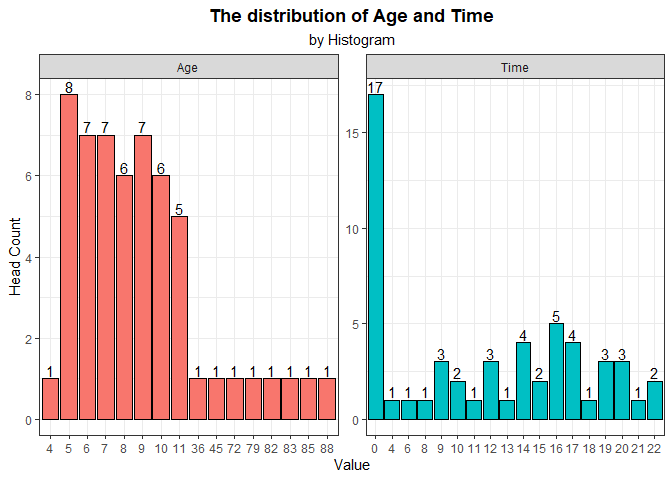
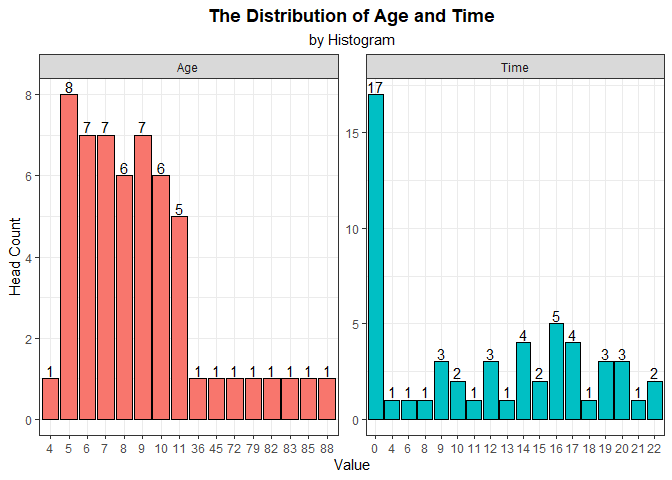
finalise

Changed region(s): [[0.3125, 0.0, 0.75, 0.0625]]

diff --git a/poison.md b/poison.md
@@ -1,4 +1,4 @@
-poison_survey
+Food Poison Survey Analysis using Multiple Correspondence Analysis
 ================
 Kar
 2022-05-05
@@ -17,7 +17,7 @@ Kar
     -   [5.3 Variable Analysis](#53-variable-analysis)
     -   [5.4 Individual Analysis](#54-individual-analysis)
     -   [5.5 Biplot](#55-biplot)
--   [6 Conclusion](#6-conclusion)
+-   [6 CONCLUSION](#6-conclusion)
 -   [7 REFERENCE](#7-reference)
 
 ## 1 R PACKAGES
@@ -34,12 +34,12 @@ library(corrplot)
 
 ## 2 INTRODUCTION
 
-This project will analyse a survey dataset using one of the principal
-component methods. The technique of “Principal component methods” is
+This project will analyse a survey dataset using one of the Principal
+Component methods. The technique of “Principal Component methods” is
 known as one of the machine learning methods, belonging to the
-“unsupervised” branch, which can quickly summarise a dataset by
-revealing the most important variables (columns) or observations (rows)
-in the dataset.
+“unsupervised” branch. Principal Component methods can quickly summarise
+a multivariate dataset by revealing the most important variables
+(columns) and observations (rows) in the dataset.
 
 The data of this survey dataset was collected from students in a primary
 school who suffered from food poisoning. The dataset contains various
@@ -48,14 +48,18 @@ sex, symptoms of food poisoning (nausea, vomiting, abdominal, fever, and
 diarrhea) and food they ate (potato, fish, mayo, courgette, cheese, ice
 cream).
 
+This project will use multiple component analysis (MCA), which is one of
+the principal component methods to analysis the data and identify which
+food is most likely causing the food poisoning.
+
 ## 3 DATA PREPARATION
 
-The dataset of this project is called “poison”, which is a public
-dataset from the R package “FactoMineR”.
+The dataset of this project is called “poison”. It is a public dataset
+from the R package “FactoMineR”.
 
 ### 3.1 Data Import
 
-Following code download the dataset from the package.
+Following code downloads the dataset from the package.
 
 ``` r
 data(poison)
@@ -68,32 +72,32 @@ sample_n(poison, 10)
 ```
 
     ##    Age Time   Sick Sex   Nausea Vomiting Abdominals   Fever   Diarrhae   Potato
-    ## 25  45   10 Sick_y   F Nausea_n  Vomit_n     Abdo_y Fever_y Diarrhea_y Potato_y
-    ## 19  11   14 Sick_y   F Nausea_n  Vomit_y     Abdo_y Fever_y Diarrhea_y Potato_y
+    ## 12  10   16 Sick_y   F Nausea_n  Vomit_y     Abdo_y Fever_n Diarrhea_n Potato_y
+    ## 38   6    0 Sick_n   F Nausea_n  Vomit_n     Abdo_n Fever_n Diarrhea_n Potato_y
+    ## 53   6    0 Sick_n   F Nausea_n  Vomit_n     Abdo_n Fever_n Diarrhea_n Potato_y
     ## 17   7   10 Sick_y   M Nausea_n  Vomit_y     Abdo_y Fever_y Diarrhea_y Potato_y
+    ## 13  36   19 Sick_y   F Nausea_n  Vomit_n     Abdo_y Fever_y Diarrhea_y Potato_y
     ## 7    5   16 Sick_y   F Nausea_n  Vomit_y     Abdo_y Fever_y Diarrhea_y Potato_y
-    ## 22   8   14 Sick_y   F Nausea_n  Vomit_n     Abdo_y Fever_y Diarrhea_y Potato_y
-    ## 15   8    0 Sick_n   M Nausea_n  Vomit_n     Abdo_n Fever_n Diarrhea_n Potato_y
-    ## 3    6   16 Sick_y   F Nausea_n  Vomit_y     Abdo_y Fever_y Diarrhea_y Potato_y
-    ## 35   7   15 Sick_y   F Nausea_y  Vomit_n     Abdo_y Fever_y Diarrhea_y Potato_n
-    ## 23   8   21 Sick_y   F Nausea_n  Vomit_y     Abdo_y Fever_y Diarrhea_y Potato_y
-    ## 5    7   14 Sick_y   M Nausea_n  Vomit_y     Abdo_y Fever_y Diarrhea_y Potato_y
+    ## 40   6   16 Sick_y   M Nausea_y  Vomit_y     Abdo_y Fever_y Diarrhea_y Potato_y
+    ## 54  10   19 Sick_y   M Nausea_n  Vomit_y     Abdo_y Fever_y Diarrhea_n Potato_y
+    ## 16   6    6 Sick_y   F Nausea_n  Vomit_y     Abdo_y Fever_y Diarrhea_y Potato_y
+    ## 24  11   13 Sick_y   M Nausea_n  Vomit_y     Abdo_y Fever_n Diarrhea_y Potato_y
     ##      Fish   Mayo Courgette   Cheese   Icecream
-    ## 25 Fish_y Mayo_y   Courg_y Cheese_n Icecream_y
-    ## 19 Fish_y Mayo_y   Courg_y Cheese_y Icecream_y
+    ## 12 Fish_y Mayo_y   Courg_y Cheese_y Icecream_y
+    ## 38 Fish_y Mayo_y   Courg_n Cheese_n Icecream_y
+    ## 53 Fish_y Mayo_n   Courg_y Cheese_n Icecream_n
     ## 17 Fish_y Mayo_y   Courg_y Cheese_n Icecream_y
+    ## 13 Fish_y Mayo_y   Courg_y Cheese_y Icecream_y
     ## 7  Fish_y Mayo_y   Courg_y Cheese_y Icecream_y
-    ## 22 Fish_y Mayo_y   Courg_y Cheese_y Icecream_n
-    ## 15 Fish_y Mayo_n   Courg_y Cheese_n Icecream_y
-    ## 3  Fish_y Mayo_y   Courg_y Cheese_y Icecream_y
-    ## 35 Fish_y Mayo_y   Courg_y Cheese_y Icecream_y
-    ## 23 Fish_y Mayo_y   Courg_n Cheese_y Icecream_y
-    ## 5  Fish_y Mayo_y   Courg_y Cheese_y Icecream_y
+    ## 40 Fish_y Mayo_y   Courg_y Cheese_y Icecream_y
+    ## 54 Fish_y Mayo_y   Courg_y Cheese_y Icecream_y
+    ## 16 Fish_y Mayo_y   Courg_y Cheese_y Icecream_y
+    ## 24 Fish_y Mayo_y   Courg_y Cheese_y Icecream_y
 
 ### 3.2 Data Exploration
 
-The dataset has 55 rows (55 students) and 15 columns recording the
-various type of variables (also known as feature).
+The dataset has 55 rows (55 students) and 15 columns that recording the
+various type of variables (also known as features).
 
 Following code also shows the variable type allocated by R to each of
 the column.
@@ -122,15 +126,18 @@ glimpse(poison)
 
 Factor “fct” is a variable type we usually allocate to variables that
 have categorisation nature. There is usually a conversion step required
-to perform by analyst to convert character “chr” variable such as “Yes”
-and “No” into factor “fct”. This step seems like has been completed.
+to perform by analyst to convert character “chr” variable (such as “Yes”
+and “No” in this case) into factor “fct”. This step seems like has been
+completed.
 
 Insights from following summary,
 
--   Respondents have age between 4 to 88, with majority of them fall
-    between 6 to 10 years old with a median of 8. Mean of 16.93
+-   Respondents were between 4 to 88 years old, with majority of them
+    fall between 6 to 10 years old with a median of 8. Mean of 16.93
     shouldn’t be used for reference because 88 is a outlier.  
--   Time should be time of recording the data.  
+
+-   Time should be the times when these data were recorded.
+
 -   The rest of the variables have two categories of either “Yes” or
     “No”.
 
@@ -161,8 +168,8 @@ summary(poison)
     ## 
 
 Following is an alternative to see the structure of the dataset. Other
-than Age and time, the rest of the variables are factor type with 2
-levels, of either “Y” or “No”, which stand for “Yes” or “No”.
+than “Age” and “Time”, the rest of the variables are factor type with 2
+levels, of either “Y” or “N”, which stand for “Yes” or “No”.
 
 ``` r
 str(poison)
@@ -185,7 +192,7 @@ str(poison)
     ##  $ Cheese    : Factor w/ 2 levels "Cheese_n","Cheese_y": 2 1 2 2 2 2 2 2 2 2 ...
     ##  $ Icecream  : Factor w/ 2 levels "Icecream_n","Icecream_y": 2 2 2 2 2 2 2 2 2 2 ...
 
-Checking missing data in the dataset, there is no missing data deteccted
+Checking missing data in the dataset, there is no missing data detected
 by examining the column “n_missing” and “complete_rate” in following
 tables. This special summary also summarise that there are 13 factor
 variables and 2 numerical variables.
@@ -252,7 +259,7 @@ There is no missing data in the dataset.
 ## 4 EDA
 
 EDA stands for Exploratory data analysis, which is using graphical
-methods to explore the data, to find and understand trends.
+methods to explore the data, to find and understand the general trends.
 
 ### 4.1 Age and Time
 
@@ -297,7 +304,7 @@ ggplot(df5.2, aes(x = val, y = count, fill = var)) +
   theme(legend.position = "none",
         plot.title = element_text(hjust = 0.5, face = "bold"),
         plot.subtitle = element_text(hjust = 0.5)) +
-  labs(title = "The distribution of Age and Time",
+  labs(title = "The Distribution of Age and Time",
        subtitle = "by Histogram",
        x = "Value",
        y = "Head Count")
@@ -305,15 +312,16 @@ ggplot(df5.2, aes(x = val, y = count, fill = var)) +
 
 ![](poison_files/figure-gfm/unnamed-chunk-9-1.png)<!-- --> From above
 graph, I can figure that students participated in the survey were
-between 5 to 11 years old. The 4 years old child might be a visitor
-brought by one of the adults between 36 to 88 years old. These adults
-might be visitors or teachers. The identity of these adults are not
-important, as well as the variable “Time” because I am more focus on
-what food cause the food poisoning.
+between 5 to 11 years old.
+
+The 4 years old child might be a visitor brought by one of the adults
+between 36 to 88 years old. These adults might be visitors or teachers.
+The identity of these adults are not important, as well as the variable
+“Time” because I am more focus on what food caused the food poisoning.
 
 ### 4.2 Dashboard
 
-There are 13 variables left to visualise, I will now create a static
+There are 13 variables left to visualise. Now, I create a static
 dashboard to view all of these variables at once.
 
 ``` r
@@ -417,7 +425,7 @@ plot_grid(title, top_row, graph_food,
 
 Almost all sicked persons (green) ate all the food mentioned in the
 graph. However, there were many healthy persons also ate these food. It
-can be difficult to estimate which food cause food poisoning.
+can be difficult to estimate which food caused the food poisoning.
 
 ## 5 PRINCIPAL COMPONENT METHODS
 
@@ -433,8 +441,9 @@ All of these PC methods are designed for different type of datasets. For
 example, PCA is chosen when all variables of a particular dataset are
 numeric.
 
-In the case of the dataset used in this project, MCA is chosen. It is
-chosen to analyse multiple categorical variables in the dataset.
+In the case of the dataset used in this project, **MCA** is chosen. It
+is chosen to analyse multiple categorical variables in the dataset.
+
 Numerical variables such as “Age” and “Time” will be treated as
 supplementary variables, as well as the variables “Sick” and “Sex”.
 Supplementary information can be qualitative variables, quantitative
@@ -442,15 +451,15 @@ variables, or even observation (rows). Supplementary variables will not
 affect the principal components of the analysis. They are used to help
 interpreting the variability in the dataset. Since I am more interested
 in the variable “Sick”, I will only use this supplementary variable in
-the analysis.
+this analysis, to estimate which food cause the food poisoning.
 
-Principal component methods (multiple correspondence analysis in this
+Principal Component methods (multiple correspondence analysis in this
 case) will extract total variation from a datasets and express them as a
 few new variables, called principal components, without loosing
 important information. The goal is to overlapping the best principal
 components with the coordinate of variables and observations, then
 identify directions on principal components that explained the highest
-variation is maximal (KASSAMBARA A 2017).
+variation (KASSAMBARA A 2017).
 
 ### 5.1 MCA
 
@@ -597,29 +606,34 @@ plot_grid(title, up, middle,
     are plotted. Levels with similar profile are grouped together as we
     can see the “y” and “n” levels are grouped together separately. The
     distance between each category point with the plot origin indicate
-    the quality of the point on the factor map (graph 2).
+    the quality of the point on the factor map (graph 2). The further
+    the point is away from the origin, the better the point is to be
+    presented by the first two components.
 
 -   In graph 3, cosine squared (cos2) will help us to visualise which
     variables are better represented by the first two dimensions. The
-    larger the size, the better it is to be represented by the factor
-    map. However, even if a variable is well represented but it might
-    not be contributing much to the principal components. Variables that
-    contribute the most are the most important variables in explaining
-    the variability in the dataset.
+    larger the size of a particular point, the better it is to be
+    represented by the factor map. However, even if a variable is well
+    represented but it might not be contributing much to the principal
+    components. Variables that contribute the most are the most
+    important variables in explaining the variability in the dataset.
 
 ### 5.4 Individual Analysis
 
 The term “individual” means the “row” of the dataset, or also known as
-“observation”. “Individual”, or more commonly “observation” are the term
-usually referred to the rows of a structured dataset which has variables
-as columns and records as rows.
+“observation”. “Individual”, or more commonly “observation” are the
+terms usually referred to the rows of a structured dataset which has
+variables as columns and records as rows.
 
 This section will perform the similar visualisation as the variable
 analysis in the previous section. Similarly, this section will identify
 the most representative and contributive observations. These are
 important observations in explaining the variability in the dataset.
-Moreover, the supplementary variable “Sick” will now be used to help
-understand the data.
+Therefore, in other words, we are not really that required to look at
+all the points, but the important ones that are presented well in the
+dimensions we used in the factor map (the graph). Moreover, the
+supplementary variable “Sick” will now be used to help understand the
+data.
 
 ``` r
 # Graphs
@@ -676,42 +690,50 @@ plot_grid(title,
 
 ![](poison_files/figure-gfm/unnamed-chunk-15-1.png)<!-- -->
 
-Figure 1 of the above visualisation plots of coordinate of each
-observation (row) onto the factor map constructed by dimension 1 and 2.
-The lines are just lines connecting between each identity (row’s name)
-that placed too far away from its point.
+**Insights**
 
-Figure 2 starts incorporating the important information we have in the
-dataset, which is the variable “sick”, which indicates whether a row is
-sick or no sick. We can clearly see that two clusters have been formed.
-It is the typical nature of PC methods, similar observations (rows) will
-be grouped together, and negative correlated observations will be
-positioned on opposite side of the plot origin, just like sick_y versus
-sick_n. Important to note that the distance between each point and the
-origin measure the quality of the observation points to be represented
-by both dimensions on the factor map.
+-   Figure 1 of the above visualisation plots of coordinate of each
+    observation (row) onto the factor map constructed by dimension 1
+    and 2. The lines are just lines connecting between each identity
+    (row’s name) that placed too far away from its point.
 
-Figure 3 adds the cluster ellipse to group the observations point, which
-is just a visual add. However, cos2 and contribution statistics are
-added. It has been discussed that points that further away from origin
-points are better represented by dimensions, the statistics that
-measures this magnitude is called cosine squared (cos2). In the graph,
-the larger the size of a point meaning the point is better represented
-and therefore we should emphasis these points when discussing the
-results. The further the points from the origin, the larger the size of
-the point. Finally contribution statistics is being added using “alpha”
-which is a function to use transparency of the point the emphases
-important points to be discusses. Points that close to the origin are
-towards transparent compared to points that located further away from
-the origin.
+-   Figure 2 starts incorporating the important information we have in
+    the dataset, which is the variable “sick”, which indicates whether a
+    row belong to sick respondents or not. We can clearly see that two
+    clusters have been formed, it is the typical nature of PC methods
+    that similar observations (rows) will be grouped together, and
+    negatively correlated observations will be positioned on opposite
+    side of the plot origin, just like sick_y versus sick_n. Important
+    to note that the distance between each point and the origin measure
+    the quality of the observation points to be represented by both
+    dimensions on the factor map.
+
+-   Figure 3 adds the cluster ellipse to group the observations point,
+    which is just a visual aid. However, cos2 and contribution
+    statistics are added. It has been discussed that points that further
+    away from origin points are better represented by dimensions, the
+    statistics that measures this magnitude is called cosine squared
+    (cos2). In the graph, the larger the size of a point meaning the
+    point is better represented and therefore we should emphasis these
+    points when discussing the results. The further the points from the
+    origin, the larger the size of the point, the higher the cos2
+    statistics, and the better the point is to be represented on the
+    factor map. Finally “contribution” statistics is being added using
+    “alpha” which is a function to use transparency to emphasis
+    important points to be discussed. Points that close to the origin
+    are more transparent compared to points that located further away
+    from the origin.
+
+Next, I will use biplot to combine both variable and individual graphs
+to further the discussion.
 
 ### 5.5 Biplot
 
 Biplot is used to combine both graphs of individual and variable
-analysis, to overlay them together to find trend. It is generally
-recommended to use biplot only when low number of variables and points,
-otherwise the biplot might be too crowded and the true trends might be
-hard to tell.
+analysis, to overlay them together to find internal trend. It is
+generally recommended to use biplot only when low number of variables
+and individual points (observations), otherwise the biplot might be too
+crowded and the true trends might be hard to tell.
 
 ``` r
 # 1 Variable plot
@@ -756,19 +778,27 @@ plot_grid(top, fig3.3,
 
 The biplot is graphed by combining both variable and individual plots.
 
-I have remove most of the characterization done in the variable and
-individual plots otherwise the biplot might be too completed to
-understand and may cause confusion. One should understands the variable
-plot first, followed by individual plots (observations / rows plots),
-then lastly the biplot. Well, there is no absolute rule that one should
-follow this sequence but it maybe a good order.
+I have removed most of the characterization in the biplot done in the
+variable and individual plots otherwise the biplot might be too
+complicated to understand and may cause confusion. One should
+understands the variable plot first, followed by individual plots
+(observations / rows plots), then lastly the biplot. Well, there is no
+absolute rule that one should follow this sequence but it maybe a good
+order.
 
-## 6 Conclusion
+From the biplot, I can see that the yellow ellipse formed by well
+represented individuals represents “Sick” respondents, majority of them
+are likely to experience vomit, fever, diarrhea and abdominals, and the
+food that most likely causing the food poisoning might be mayonnaise
+because it is better represented by the factor map (higher cos2) and
+have a considerable level of contribution statistics (higher contrib).
 
-In conclusion, for sick persons (yellow points), the most likely
-symptoms are vomit, fever, and diarrhea. The most possible food caused
-the food poisoning is very likely Mayo, supported by contribution
-statistics and cosine squared (cos2).
+## 6 CONCLUSION
+
+In conclusion, for sick respondents (yellow points), the most likely
+symptoms are vomit, fever, diarrhea, and abdominals. The most possible
+food caused the food poisoning is very likely mayonnaise, supported by
+contribution statistics and cosine squared (cos2).
 
 ## 7 REFERENCE
 
